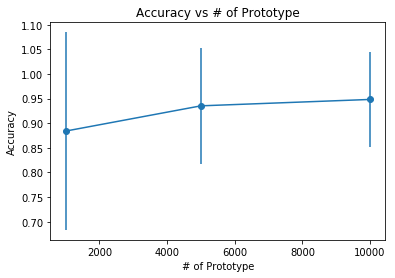
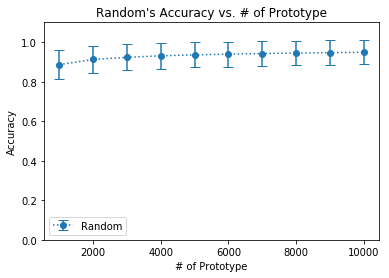
rebuilding site Thu Jan 31 16:46:45 PST 2019

diff --git a/content/posts/nearest-neighbor-classification.md b/content/posts/nearest-neighbor-classification.md
@@ -1,0 +1,78 @@
+---
+title: "Nearest Neighbor Classification"
+date: 2019-01-31T16:08:27-08:00
+categories: ["machine learning"]
+series: ["statistical learning"]
+tags: ["mnist", "distance", "metric"]
+draft: false
+---
+
+## Nearest Neighbor Classification
+
+### Procedures
+
+1. Assemble a data set (training set)
+![MNIST data](/img/cse250/mnist.png)
+1. How to classify a new image x?
+  - find its closest neighbor y, and label it the same
+
+
+Notes:
+
+- training set of 60000 images
+- test set of 10000 test
+
+
+### How do we determine if two data (images) are closest?
+
+With 28 x 28 image, we can strech it to become a vector of 784.
+![3](/img/cse250/3.png)
+
+We then use Euclidean distance formula to find the distance betwen them.
+
+$$||x - z|| = \sqrt{\sum_{i=1}^{784}(x_i - z_i)^2}$$
+
+With 1 closest neighbor, we are getting 3.09% on the test set.
+
+### Ideas for Improvement
+
+1. Choose different number of neighbors (kNN instead of 1NN)
+1. Better distance functions
+
+With different K
+
+|            k |    1 |    3 |    5 |    7 |    9 |   11 |
+|-------------:|-----:|-----:|-----:|-----:|-----:|-----:|
+| Test Error % | 3.09 | 2.94 | 3.13 | 3.10 | 3.43 | 3.34 |
+
+With different distance functions\
+There are many active researches on accodmading translations and rotations and also the deformation.
+
+For example, the 1 in the right is generated by shifting 1 in the left by few pixel.
+![1](/img/cse250/1.png)
+
+| dist function |   l2 | tangent distance | shape context |
+|--------------:|-----:|-----------------:|--------------:|
+|    error rate | 3.09 |             1.10 |          0.63 |
+
+### Problem
+
+**The curse of Dimension**
+
+Although the kNN search provides very good algorithm, the search time is slow. It takes time proportion to the size of data, n, and dimension, d, O(nd).
+
+Ideas for addressing the issues:
+
+- Different Data Structure
+  - [Locality Sensitive Search](link) #TODO
+  - [Ball Tree](link) #TODO
+  - [K-d tree](link) #TODO
+- Different distance function
+  - Approximate Distance (link) #TODO
+- Data Reduction
+  - [Prototype Section](../prototype-selection)
+
+#### k-d Tree
+![kd-tree](/img/cse250/kd-tree.png)
+
+Credit to CSE 250 Class notes.

diff --git a/content/posts/cse250-proj1.md b/content/posts/cse250-proj1.md
@@ -51,17 +51,25 @@ where
 - p = proportion mean of sample
 - n = sample size.
 
-The plot for random selection for different M.
-![Accuracy vs Prototye](/img/cse250/random_accuracy.png)
+The following plots are for random selection and k-means:
+![Random's Accuracy vs Prototye](/img/cse250/random_accuracy.png)
+![K-mean's Accuracy vs Prototye](/img/cse250/kmean_accuracy.png)
+![Accuracy vs Prototye](/img/cse250/accuracy.png)
 
-[Accuracy Random vs PS](https://www.tablesgenerator.com/markdown_tables)
+[Accuracy for Random vs K-Means PS](https://www.tablesgenerator.com/markdown_tables)
 
-| Num of Prototype |  Accuracy of Random | Accuracy of PS |
-|-----------------:|--------------------:|---------------:|
-|             1000 | 0.8841 $\pm$ 0.2008 |         0.9578 |
-|             5000 | 0.9354 $\pm$ 0.1184 |         0.9697 |
-|            10000 | 0.9484 $\pm$ 0.0959 |         0.9675 |
-
+| Num of Prototype |  Accuracy of Random | Accuracy of K-Means |
+|-----------------:|--------------------:|--------------------:|
+|             1000 | 0.8861 $\pm$ 0.1137 | 0.9580 $\pm$ 0.0718 |
+|             2000 | 0.9123 $\pm$ 0.1012 | 0.9628 $\pm$ 0.0678 |
+|             3000 | 0.9230 $\pm$ 0.0954 | 0.9650 $\pm$ 0.0657 |
+|             4000 | 0.9309 $\pm$ 0.0908 | 0.9662 $\pm$ 0.0646 |
+|             5000 | 0.9355 $\pm$ 0.0879 | 0.9673 $\pm$ 0.0637 |
+|             6000 | 0.9393 $\pm$ 0.0854 | 0.9679 $\pm$ 0.0631 |
+|             7000 | 0.9420 $\pm$ 0.0836 | 0.9685 $\pm$ 0.0625 |
+|             8000 | 0.9449 $\pm$ 0.0817 | 0.9685 $\pm$ 0.0625 |
+|             9000 | 0.9464 $\pm$ 0.0806 | 0.9689 $\pm$ 0.0621 |
+|            10000 | 0.9489 $\pm$ 0.0788 | 0.9691 $\pm$ 0.0619 |
 
 
 ## 4. Critical Evaluation

diff --git a/content/posts/fast-fourtier-transform.md b/content/posts/fast-fourtier-transform.md
@@ -81,4 +81,26 @@ D(\omega\_{j,2n}) &= \sum\_{t=0}^{2n - 1} c_t(\sum\_{s=0}^{2n - 1} e^{(2\pi i)(s
 &= \sum\_{t=0}^{2n - 1} c_t(\sum\_{s=0}^{2n - 1} \omega\_{t+j,2n}^s)
 \end{align}
 
+## In class
+Finite Field $\mathbb{Z}_p$, where p is a prime
+$(\mathbb{Z}_p, +, 0)$, $(\mathbb{Z}_p^*, *, 1)$
+
+$\mathbb{Z}_p^* = \\{1, ..., p-1\\} = \\{g^i$ and $p | i = 0, ..., p-2\\}$
+
+$\forall$ prime p $\exists g$
+
+$\mathbb{Z}_{257}^* = \\{2^i | i = 0, ...255\\}$
+
+$|\mathbb{Z}_{257}^*| = 256 = 2^8$
+
+$o(g) = min\\{i>0| g^i$ and $ p\\}\bigg||\mathbb{Z}_p^*| = 256$
+
+
+
+
+
+
+
+
+
 
